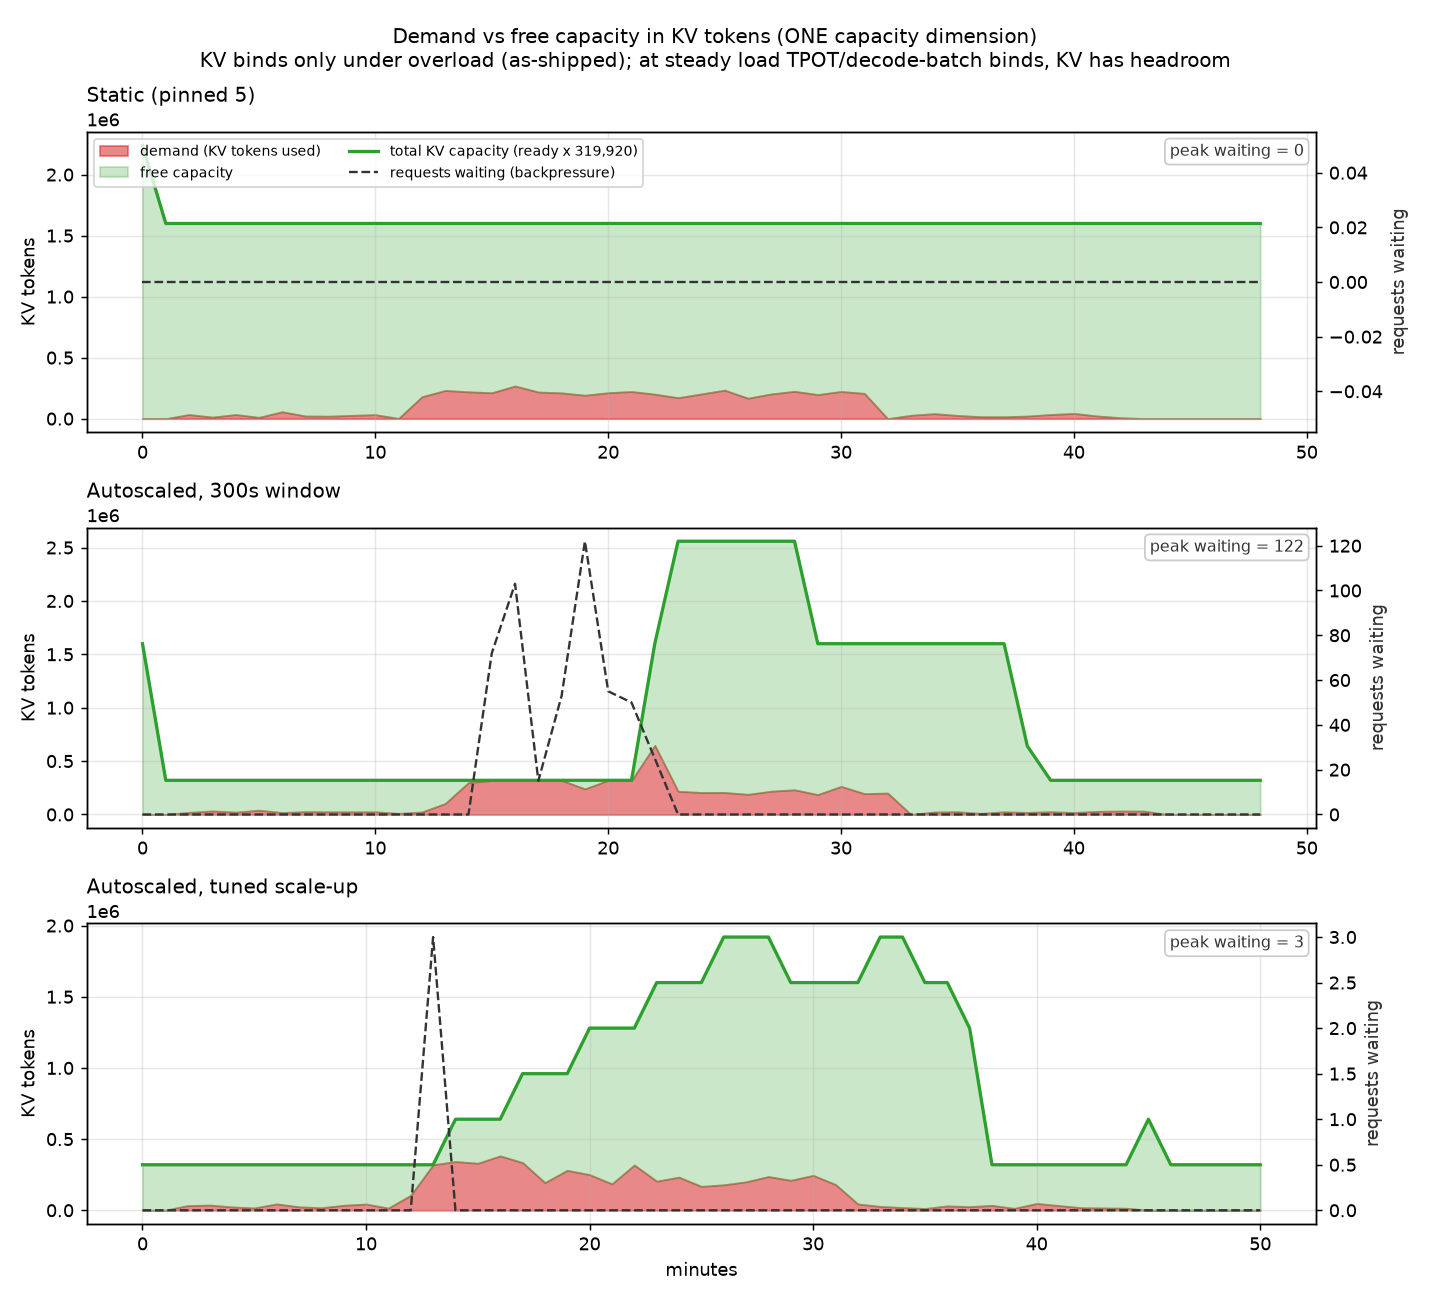
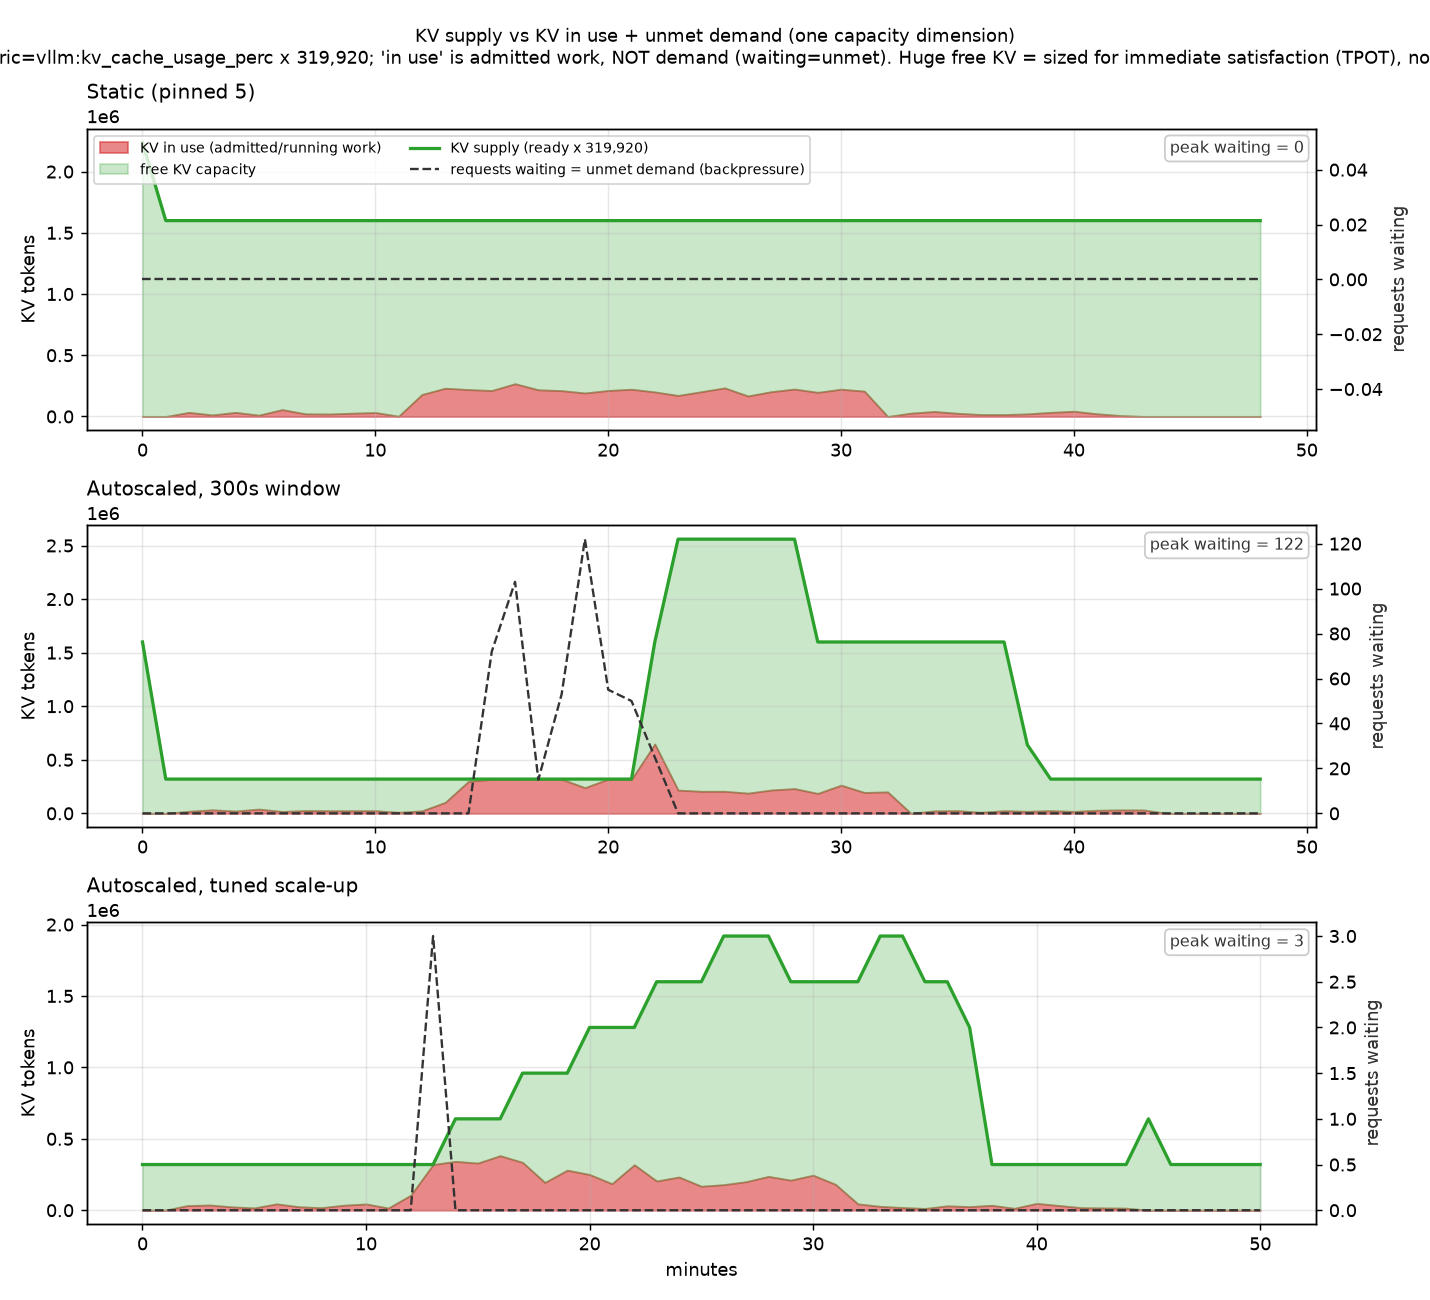
docs(autoscaling): relabel KV plot (in-use not demand) + metric/demand notes

diff --git a/guides/workload-autoscaling/keda-epp/benchmark-results/2026-10-13-autoscaled-vs-static-v2/FINDINGS.md b/guides/workload-autoscaling/keda-epp/benchmark-results/2026-10-13-autoscaled-vs-static-v2/FINDINGS.md
@@ -76,24 +76,32 @@ it does **not** overshoot to max. Goodput 94.3% (vs 66%), 18 failures (vs 269), 
 all at the **same 126 replica-min** as the as-shipped arm. The gradual climb let a small backlog push it
 to 6 briefly; a minor, self-correcting effect.
 
-## 4. The same story in token space: demand vs free capacity [PROVEN LIVE]
-Seen in the capacity dimension that actually binds a decode server - KV-cache tokens - the three arms
-are unambiguous (plots/demand_vs_capacity.png; backfilled from vLLM `kv_cache_usage_perc` x the
-per-replica KV budget of 319,920 tokens, with `num_requests_waiting` as the unmet-demand/backpressure
-overlay):
-- Static: KV demand never exceeds ~17% of pooled capacity; **peak requests waiting = 0**.
-- As-shipped: capacity is stuck at one replica's 319,920 tokens while demand presses in, so the replica
-  hits **100% KV** and **peak requests waiting = 122, all `reason="capacity"`** (KV exhaustion; deferred=0)
-  during the delay - then capacity jumps to the 8-replica ceiling (overshoot). [VERIFIED from thanos:
-  single-replica kv_cache_usage_perc = 1.0 through the delay; num_requests_waiting_by_reason{capacity}.]
-- Tuned: capacity ramps up tracking demand; free capacity stays positive; **peak requests waiting = 3**.
+## 4. The same story in token space: KV supply vs KV in use + unmet demand [PROVEN LIVE]
+plots/demand_vs_capacity.png. METRIC + LABELS (Lionel's correction): the red area is KV **in use** =
+`sum(vllm:kv_cache_usage_perc) x 319,920 tokens` - i.e. admitted/running work's KV footprint, NOT demand.
+True demand = in use + what is QUEUED, so the honest demand signal is the `num_requests_waiting` overlay
+("unmet demand"); the red area is utilization/supply-consumed. (Caveat per Abhishek: kv_cache_usage_perc
+also counts prefix-CACHED blocks; our run used random prompts so prompt_tokens cached=0, but in general
+cached must be subtracted, and you cannot know a queued request's footprint until it is scheduled - an
+EPP prefix-cache-aware plugin estimates it. The right long-term source is router/EPP internal demand
+metrics; some are logged but not yet Prometheus-exposed -> reuse them and PR the exposure rather than
+reconstruct from vLLM. This plot is the vLLM-exposed approximation available today.)
+- Static: KV in use never exceeds ~17% of pooled supply; **peak requests waiting = 0**.
+- As-shipped: supply is stuck at one replica's 319,920 tokens, the replica hits **100% KV**, and **peak
+  requests waiting = 122, all `reason="capacity"`** (KV exhaustion; deferred=0) during the delay - then
+  supply jumps to the 8-replica ceiling (overshoot). [VERIFIED from thanos: single-replica
+  kv_cache_usage_perc = 1.0 through the delay; num_requests_waiting_by_reason{capacity}.]
+- Tuned: supply ramps up tracking load; free KV stays positive; **peak requests waiting = 3**.
 
 IMPORTANT - what the free KV capacity does and does NOT mean:
 KV tokens is only ONE capacity dimension. For this workload it is **not** the binding one at steady load -
 **TPOT (decode latency, set by batch size) is**. Evidence: static peak uses only ~17% KV yet its goodput
 loss is TPOT, not TTFT (tpot_attainment 96.7% vs ttft 99.96%); 80 concurrent requests need ~0.84 of a
 SINGLE replica's KV, so KV alone says "~1 replica", but 80 concurrent on 1 replica would blow TPOT. The
-pool runs 5 at peak because the running=16 trigger effectively sizes for decode BATCH/TPOT, not KV. So:
+pool runs 5 at peak because the running=16 trigger effectively sizes for decode BATCH/TPOT, not KV -
+i.e. it is sized so demand is satisfied immediately (low latency), which is exactly why KV looks
+massively over-supplied (Lionel: "too much supply for the demand ... makes sense for this KEDA config,
+demand satisfied immediately"). So:
 - KV becomes binding only under the as-shipped OVERLOAD (1 replica, in-flight 200+ -> 100% KV); that is
   the delay catastrophe and it is genuinely KV-bound.
 - At the properly-provisioned peak, TPOT binds and KV has headroom, so the free KV is NOT reclaimable by
